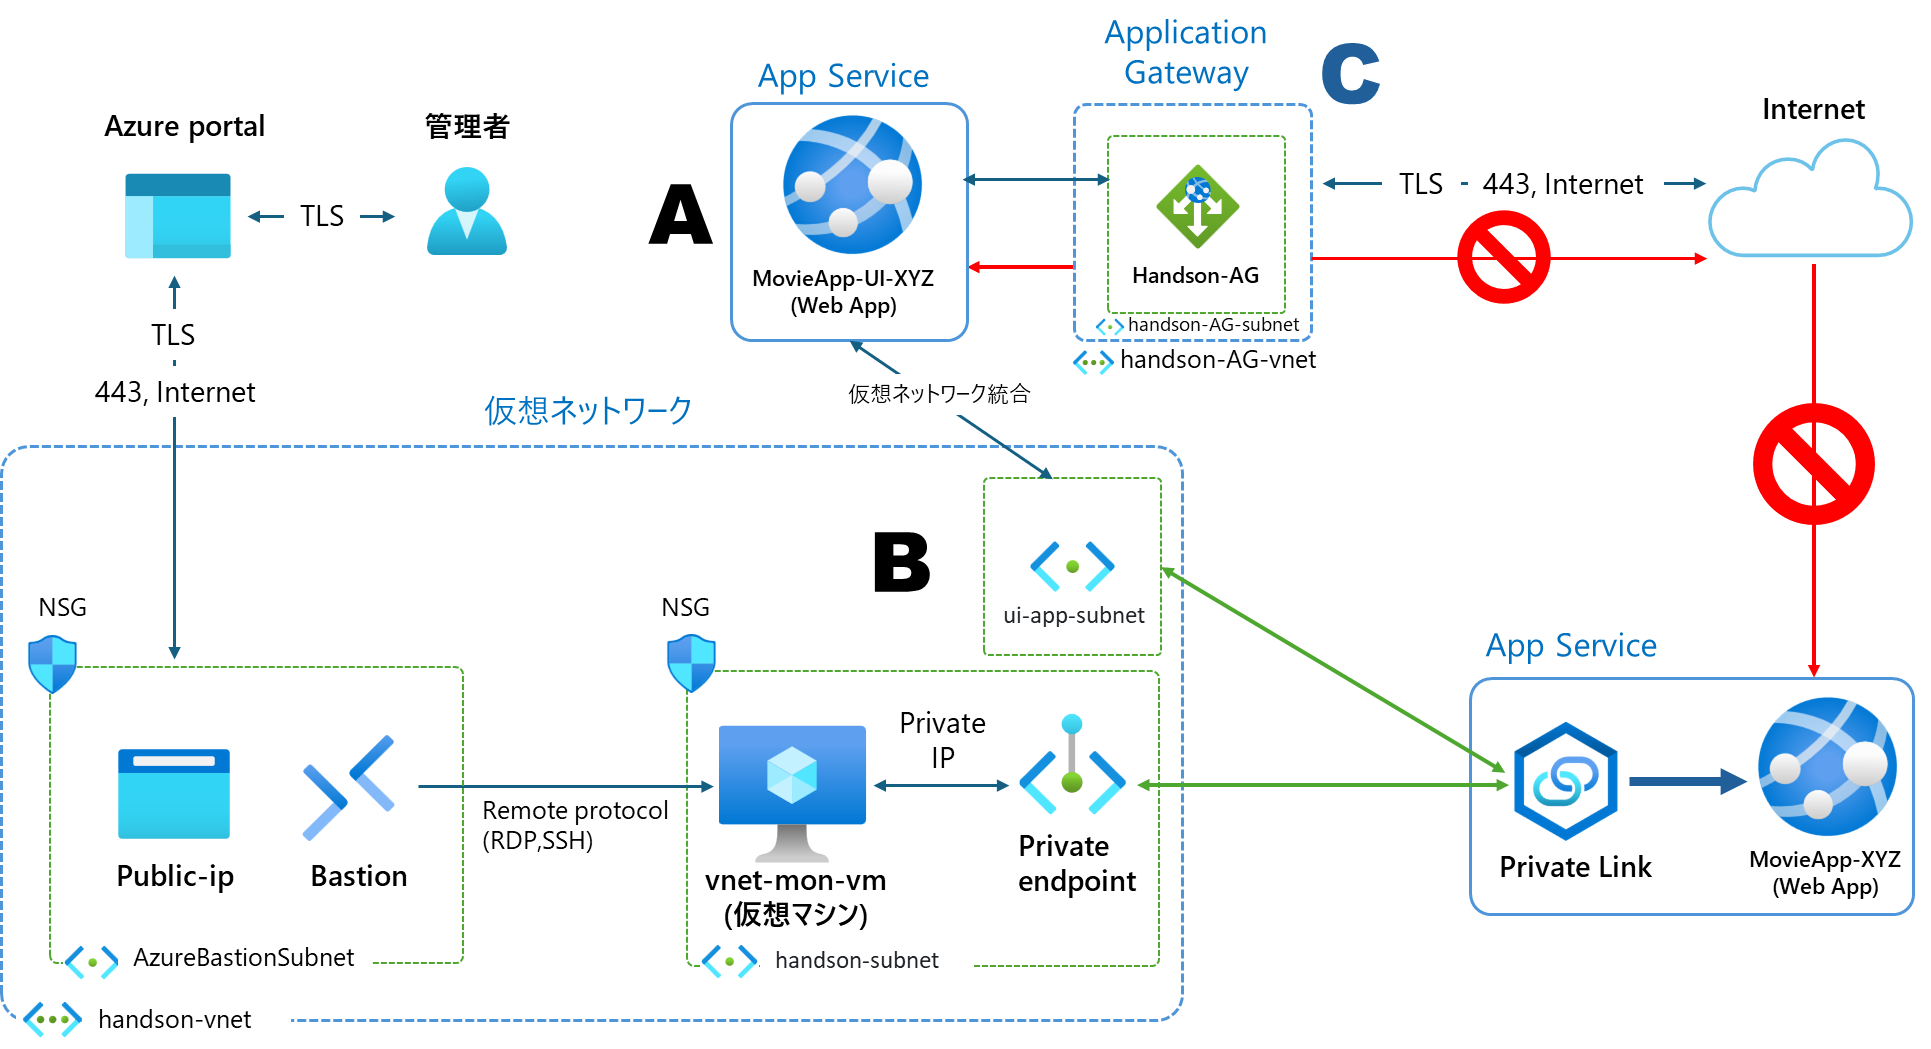
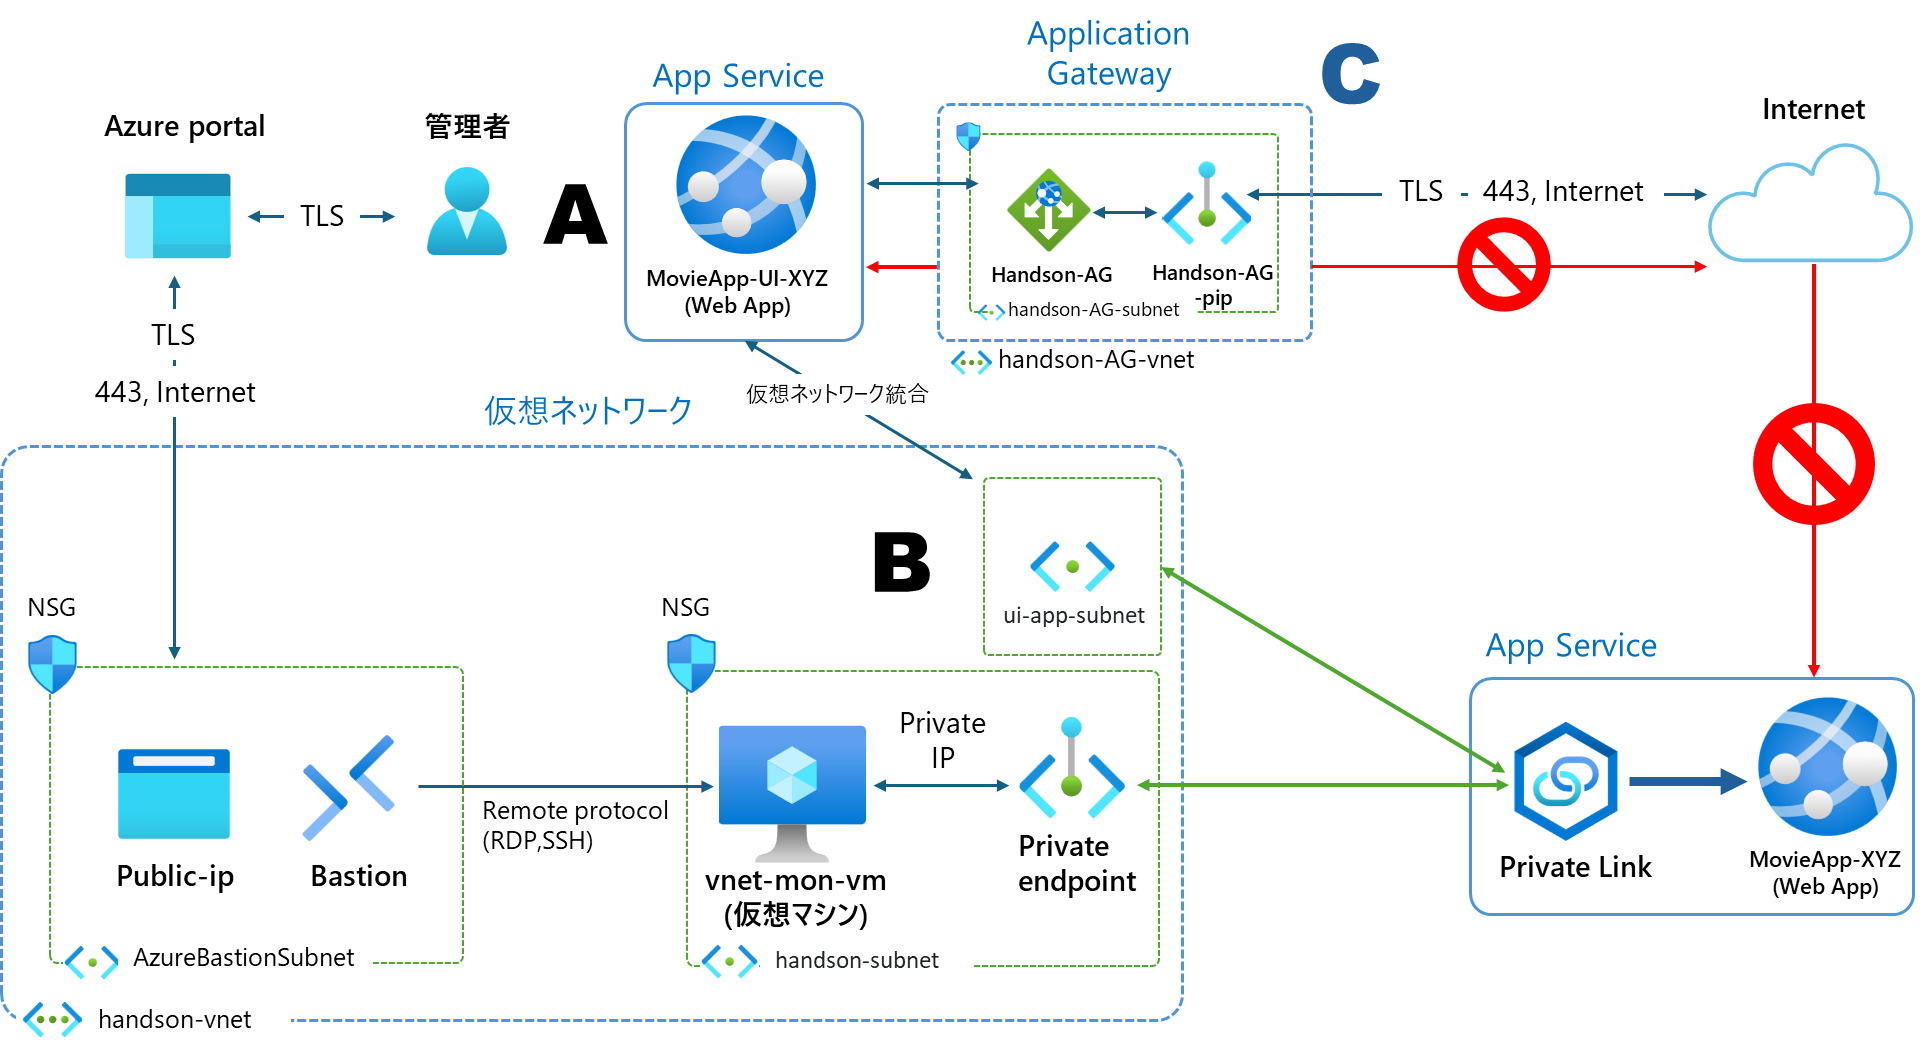
add Application Gateway routing

diff --git a/ex04.md b/ex04.md
@@ -822,22 +822,30 @@ Application Gateway のリソースを新規作成し、作成した仮想ネッ
 
 またこの手順ではリクエストを `MovieApp-UI-XYZ` にルーティングするように構成しましたが、プライベート エンドポイント内の `MovieApp-UI-XYZ` にルーティングするように構成することも可能です。
 
-
-
-## その他 :  サービス エンドポイントとプライベート エンドポイントについて
-
-Microsoft Azureのサービスエンドポイントとプライベートエンドポイントは、仮想ネットワーク内でのアクセスを制限する機能ですが、それぞれ異なる特性と利用シーンがあります。
-
-**サービスエンドポイント**は、Azure Storage や Azure SQL Database など、仮想ネットワークに直接デプロイできないサービスを仮想ネットワーク内の特定のサブネットからのみにアクセスを制限できる機能です。これにより、Azure バックボーンの最適化されたネットワークを介して直接安全にアクセスでき、Azure サービス リソースへのアクセスを仮想ネットワークのみに絞ることができます²。
-
-一方、**プライベートエンドポイント**は、Private Link　サービスを利用する際に作成されるエンドポイントで、Azure サービスだけでなく独自サービスでも利用できます。プライベート　エンドポイントを使用することで、Azure サービスをインターネットから隔離し、データの漏洩リスクを大幅に削減することができます。また、特定のリソースに対してのみ接続を許可し、その他のリソースへの接続をブロックすることができます。
-
-したがって、サービス エンドポイントとプライベート エンドポイントの選択は、特定の要件やセキュリティ要件に基づいて行われます。
-
+<br>
 
 ## まとめ
 
-この演習では、App Service 上のアプリケーションへのアクセスを仮想ネットワーク内からのみに制限する方法と、App Service 上のアプリケーションから仮想ネットワーク内のリソースに接続する方法を学習しました。
+この演習では Azure 仮想ネットワークを使用してネットワーク分離を行うための方法として Private Link (プライベート エンドポイント)を作成する方法と Azure Application Gateway 経由でのみアクセスを許可する方法(サービス エンドポイント)を学習しました。
+
+Azure はパブリック クラウドであるため、パブリックなインターネット経由でそのサービスに接続します。ただし、アプリケーションのトラフィックをインターネット経由で接続したくない場合があります。Azure ネットワークには、リソースに安全に接続するためのさまざまな方法が用意されており、プライベート エンドポイントとサービス エンドポイントもそれを実現するためのネットワーク分離の機能です。
+
+
+**プライベート エンドポイント**は、仮想ネットワーク内の Azure サービス用の特別なネットワーク インターフェイスであり、プライベート エンドポイントをサポートする任意の Azure サービスを仮想ネットワークに取り込むことができます。
+
+これにより仮想ネットワーク内にある仮想マシンなどから**プライベート IP アドレス**を介して PaaS サービスにアクセスできます。その後、サービスへの接続はプライベートになり、Azure Private Link によってセキュリティで保護されます。
+
+**サービス エンドポイント**も Azure サービスへのセキュリティで保護された直接接続を提供します。サービス エンドポイントは、VNet トラフィックをパブリック インターネットから Azure バックボーン ネットワークに転送し Azure サービスに安全に直接接続できます。
+
+プライベートな仮想ネットワーク上のコンピューティング リソースは、Azure サービスに接続するときに、プライベート IP アドレスをソース アドレスとして使用しますが、コンピューティング リソースは Azure サービスの**パブリック IP アドレス**に接続します。このパブリック接続は、コンピューティング リソースが Azure サービスの特定のインスタンスに関連付けられているプライベート IP アドレスに接続する**プライベート エンドポイントとは異なります**。
+
+プライベート エンドポイントとサービス エンドポイントの詳細については以下のドキュメントを参照してください。
+
+* [**ネットワーク分離のために Azure サービスと仮想ネットワークを統合する - プライベート エンドポイントとサービス エンドポイントの比較**](https://learn.microsoft.com/ja-jp/azure/virtual-network/vnet-integration-for-azure-services#compare-private-endpoints-and-service-endpoints)
+
+* [**プライベート エンドポイントとは**](https://learn.microsoft.com/ja-jp/azure/private-link/private-endpoint-overview)
+
+* [**仮想ネットワーク サービス エンドポイント**](https://learn.microsoft.com/ja-jp/azure/virtual-network/virtual-network-service-endpoints-overview)
 
 
 <br>
